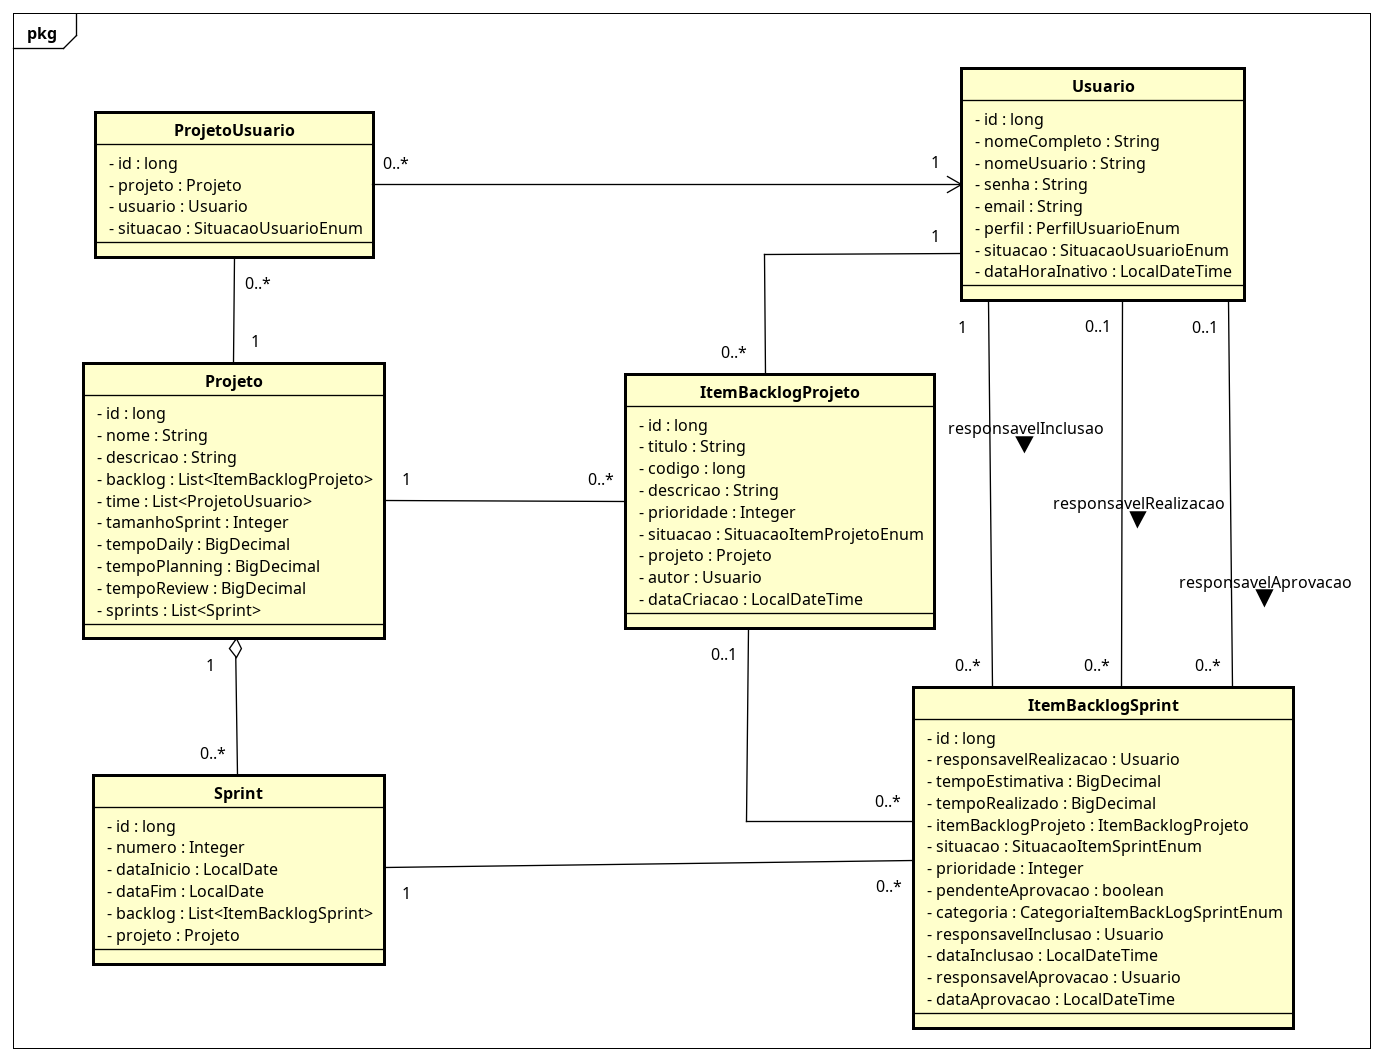
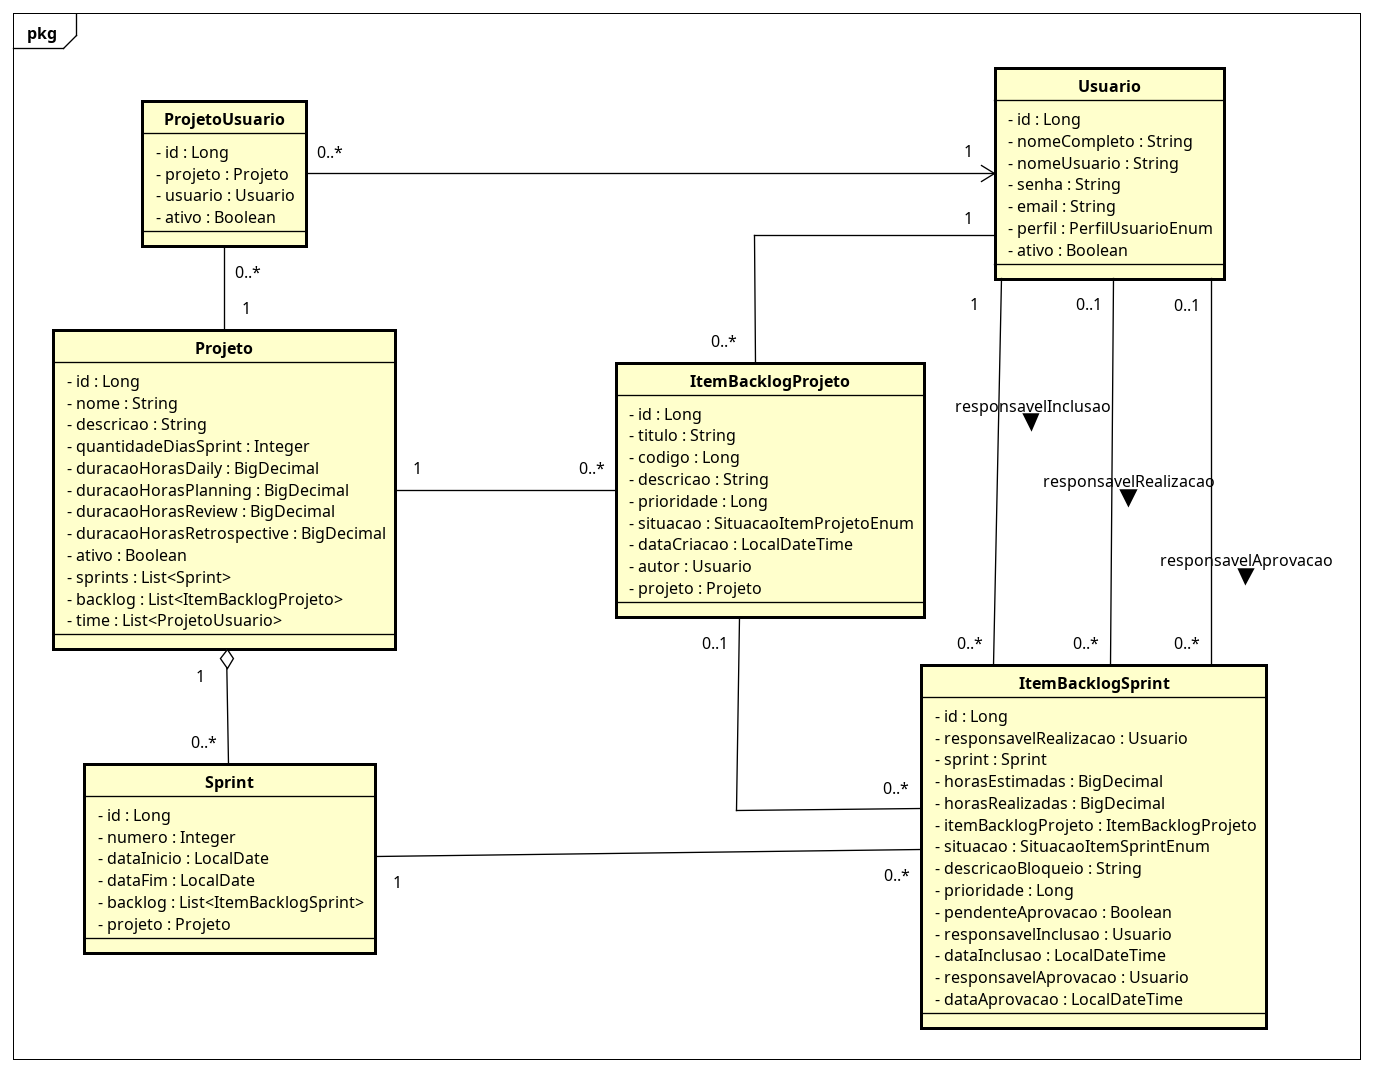
Atualizando diagrama de classe

Changed region(s): [[0.0306, 0.0622, 0.9789, 0.9953], [0.0306, 0.0, 0.0612, 0.0311]]

diff --git a/codigo-fonte/scrum-back-end/src/main/java/br/ufes/entity/Sprint.java b/codigo-fonte/scrum-back-end/src/main/java/br/ufes/entity/Sprint.java
@@ -1,6 +1,7 @@
 package br.ufes.entity;
 
 import java.time.LocalDate;
+import java.util.List;
 
 import jakarta.persistence.Column;
 import jakarta.persistence.Entity;
@@ -10,6 +11,7 @@ import jakarta.persistence.GenerationType;
 import jakarta.persistence.Id;
 import jakarta.persistence.JoinColumn;
 import jakarta.persistence.ManyToOne;
+import jakarta.persistence.OneToMany;
 import jakarta.persistence.Table;
 import lombok.AllArgsConstructor;
 import lombok.Getter;
@@ -38,5 +40,8 @@ public class Sprint {
 	@ManyToOne(fetch = FetchType.LAZY)
 	@JoinColumn(name = "ID_PROJETO")
 	private Projeto projeto;
+
+	@OneToMany(mappedBy = "sprint", fetch = FetchType.LAZY)
+	private List<ItemBacklogSprint> backlog;
 
 }
